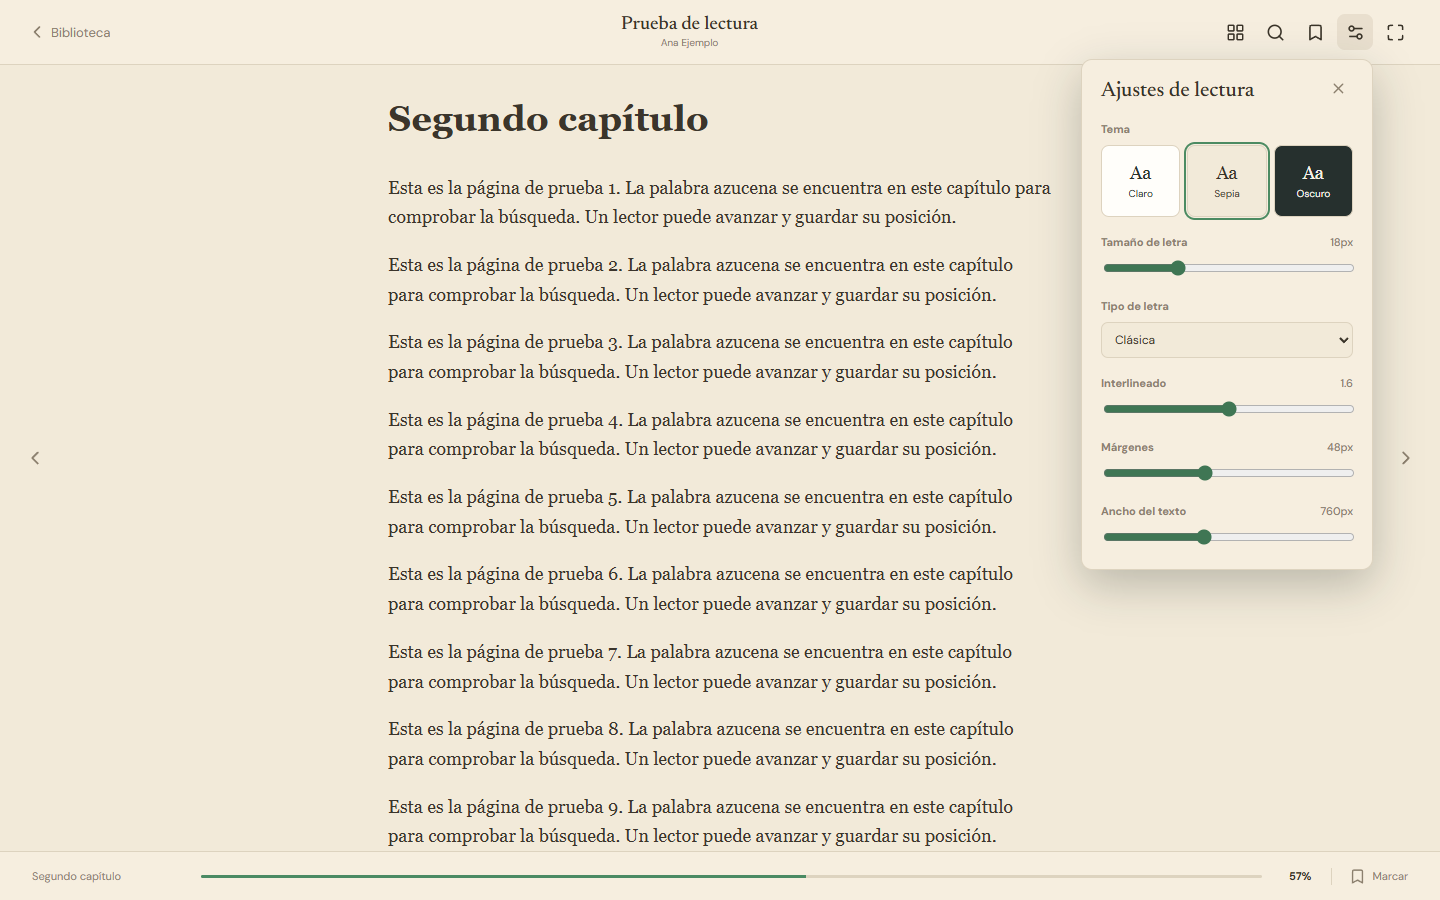
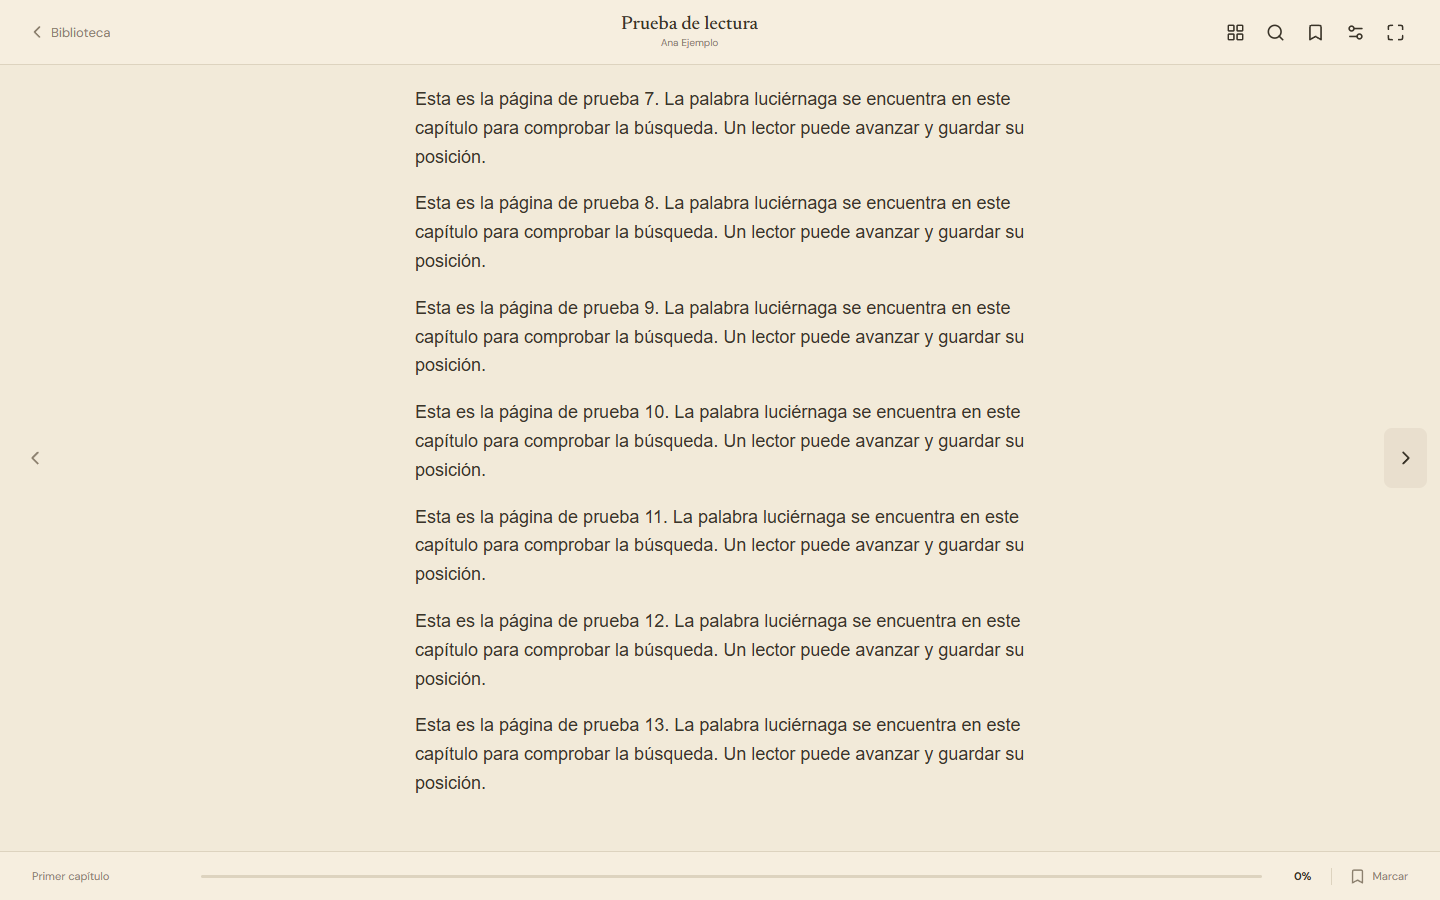
docs: clarify startup and refresh responsive screenshots

diff --git a/README.md b/README.md
@@ -8,9 +8,11 @@
 | --- | --- |
 | ![Biblioteca con dos libros de demostración](docs/screenshots/library.png) | ![Lector EPUB en tema sepia](docs/screenshots/epub.png) |
 
-| Lector PDF | Diseño móvil |
+| Lector PDF | Biblioteca móvil |
 | --- | --- |
 | ![Visor PDF con resultados de búsqueda](docs/screenshots/pdf.png) | ![Biblioteca en un teléfono](docs/screenshots/mobile.png) |
+
+![Lectura EPUB en una pantalla móvil](docs/screenshots/mobile-reader.png)
 
 Las capturas usan libros de demostración; no se incluyen archivos personales ni libros en el repositorio.
 
@@ -22,7 +24,7 @@ Las capturas usan libros de demostración; no se incluyen archivos personales ni
 - Buscar texto dentro de cada libro y guardar marcadores.
 - Ajustar fuente, tamaño, interlineado, márgenes y ancho del texto en EPUB.
 - Elegir tema claro, sepia u oscuro; leer a pantalla completa.
-- Eliminar libros y sus datos locales. Interfaz adaptable a computadora, tableta y móvil.
+- Eliminar libros y sus datos locales. Interfaz adaptable a computadora, tableta y móvil, con controles de lectura accesibles en pantallas pequeñas.
 
 ## Tecnologías
 
@@ -36,15 +38,25 @@ Necesitas **Node.js 22.13 o posterior de la línea 22, o Node.js 24 o posterior*
 git clone https://github.com/MiguelJimenez12/pluma-reader.git
 cd pluma-reader
 npm ci
+npm start
+```
+
+`npm start` compila la aplicación y abre la versión de producción en `http://127.0.0.1:4173/`. Pulsa **Añadir libro** para importar tus archivos. La terminal debe permanecer abierta mientras usas Pluma. Después de cerrar la terminal o reiniciar la computadora, entra de nuevo en la carpeta del proyecto y ejecuta `npm start`; solo necesitas repetir `npm ci` si cambian las dependencias o haces una instalación nueva. Si el puerto está ocupado, cierra la instancia anterior de Pluma y vuelve a ejecutar el comando.
+
+Para trabajar en el código con recarga automática:
+
+```bash
 npm run dev
 ```
 
-Abre la dirección local que muestre Vite (normalmente `http://127.0.0.1:5173/`) y pulsa **Añadir libro**. Para generar y revisar la versión de producción:
+El servidor de desarrollo abre en `http://127.0.0.1:5173/`. También puedes compilar y revisar la versión de producción por separado:
 
 ```bash
 npm run build
 npm run preview
 ```
+
+`npm run preview` requiere haber ejecutado `npm run build` antes. Las advertencias de `npm ci` sobre `@types/localforage` y `allow-scripts` proceden de dependencias; no impiden instalar, compilar ni ejecutar Pluma. La instalación verificada no mostró vulnerabilidades en `npm audit`.
 
 ## Estructura
 
@@ -61,4 +73,4 @@ docs/screenshots/   Capturas reales de la aplicación
 
 ## Datos y límites actuales
 
-La biblioteca pertenece al navegador y dispositivo donde se importó. Borrar los datos del sitio también borra los libros y el progreso. La búsqueda de PDF requiere texto seleccionable: un PDF escaneado necesitaría reconocimiento de texto. Una mejora futura sería sincronizar o exportar la biblioteca entre dispositivos.
+La biblioteca pertenece al navegador y dispositivo donde se importó. El servidor de desarrollo (`:5173`) y el de producción (`:4173`) son direcciones distintas y cada una tiene su propia biblioteca local; usa siempre la misma dirección para continuar tus lecturas. Borrar los datos del sitio también borra los libros y el progreso. La búsqueda de PDF requiere texto seleccionable: un PDF escaneado necesitaría reconocimiento de texto. El diseño se comprobó en tamaños de 320, 390, 768, 1024 y 1440 píxeles mediante Chrome automatizado; todavía no sustituye una prueba en modelos físicos de teléfono. Una mejora futura sería sincronizar o exportar la biblioteca entre dispositivos.
